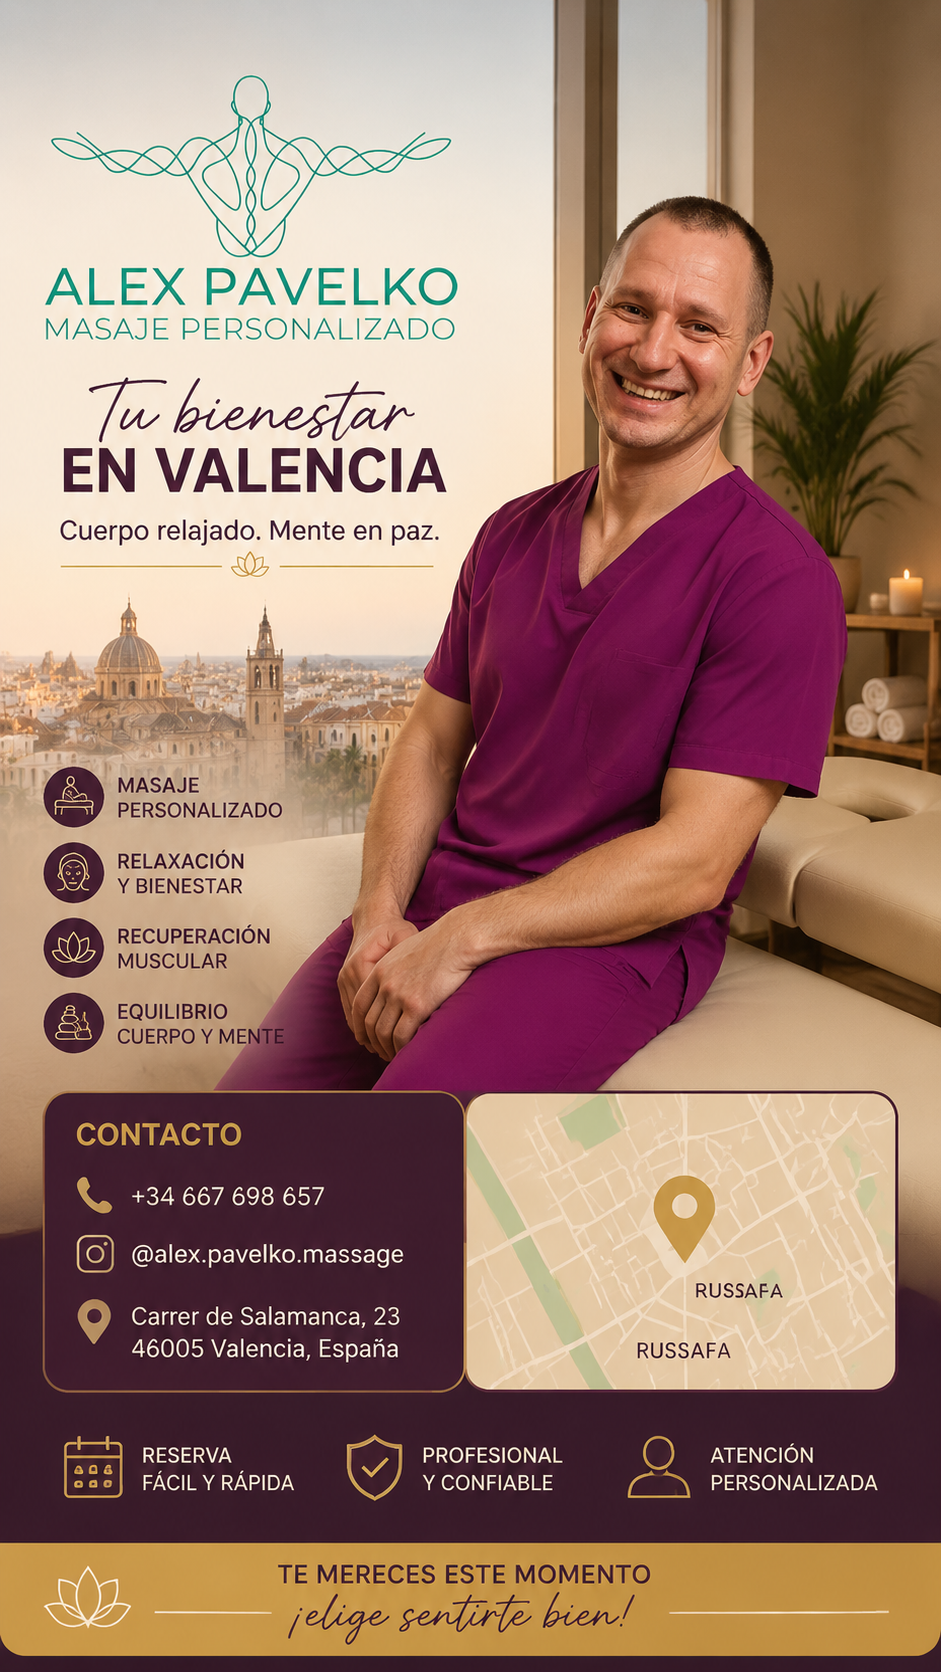
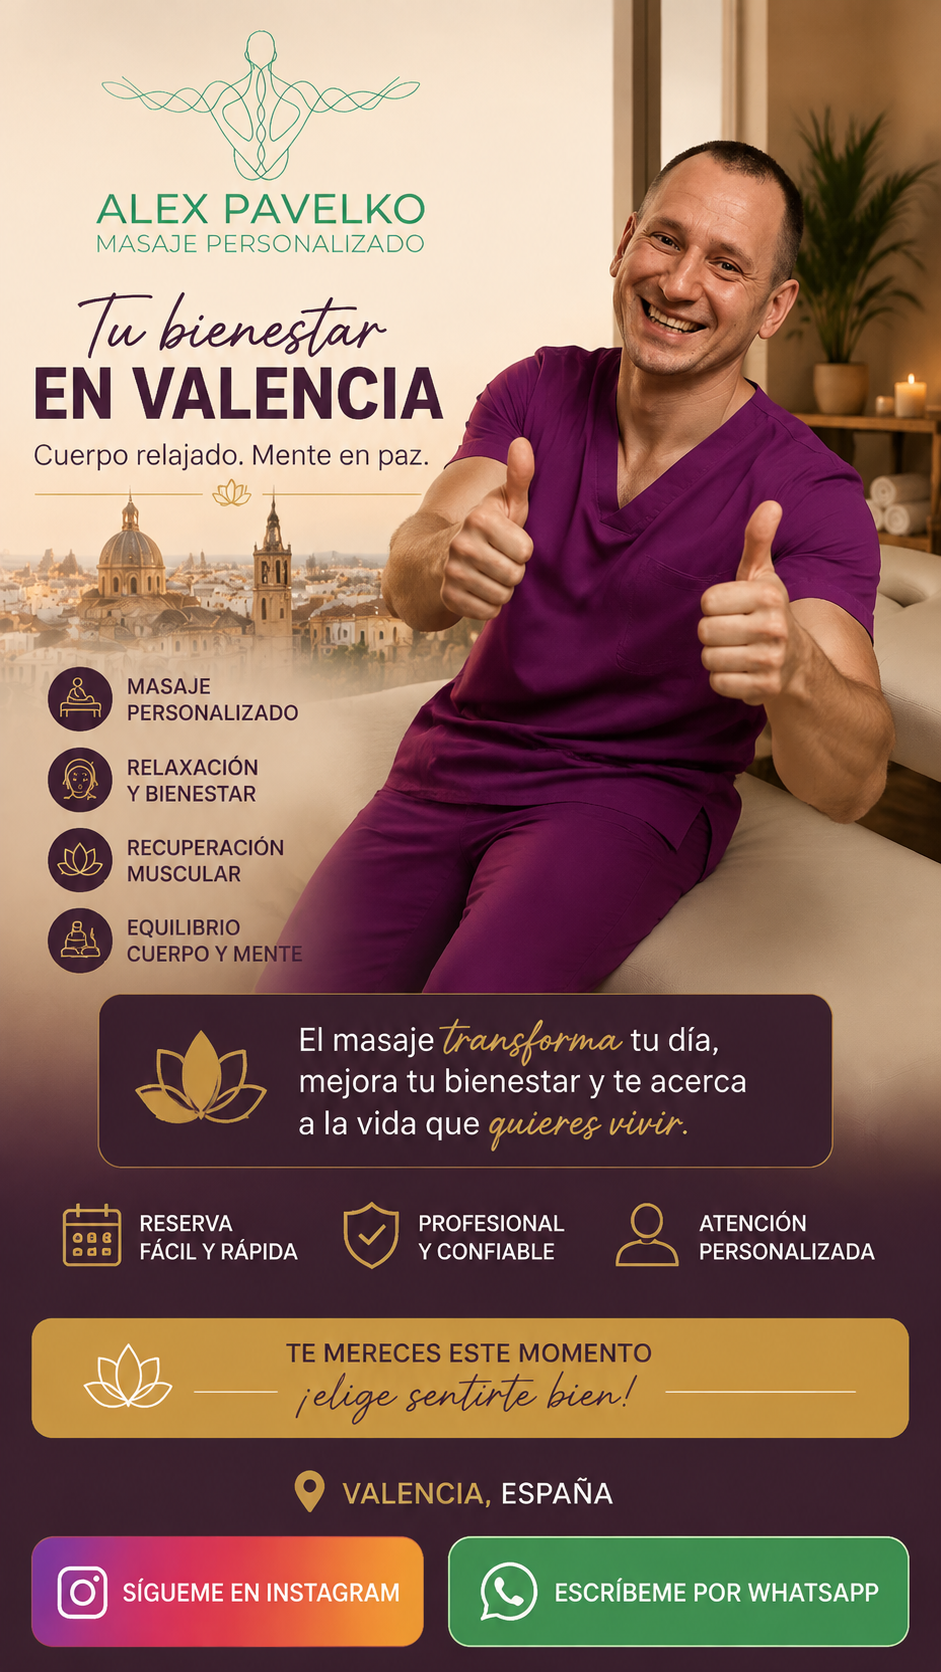
8v

diff --git a/style.css b/style.css
@@ -2239,7 +2239,83 @@ AUTHOR SCREEN
 }
 
 
+/*
+=================================================
 
+SCREEN-024
+
+CONTACT BUTTONS
+
+INSTAGRAM + WHATSAPP
+
+=================================================
+*/
+
+
+.contact-instagram-button,
+.contact-whatsapp-button {
+
+
+    position:absolute;
+
+
+    bottom:4%;
+
+
+    height:10%;
+
+
+    background:transparent;
+
+
+    border:none;
+
+
+    cursor:pointer;
+
+
+    z-index:50;
+
+
+}
+
+
+
+/*
+INSTAGRAM LEFT BUTTON
+
+=================================================
+*/
+
+.contact-instagram-button {
+
+
+    left:5%;
+
+
+    width:42%;
+
+
+}
+
+
+
+/*
+WHATSAPP RIGHT BUTTON
+
+=================================================
+*/
+
+.contact-whatsapp-button {
+
+
+    right:5%;
+
+
+    width:42%;
+
+
+}
 
 
 

diff --git a/game.js b/game.js
@@ -1083,6 +1083,19 @@ document.getElementById(
 ),
 
 
+instagram:
+document.getElementById(
+"button-screen-024-instagram"
+),
+
+
+whatsapp:
+document.getElementById(
+"button-screen-024-whatsapp"
+),
+
+
+
 
 
 
@@ -3432,6 +3445,48 @@ screens.screen001
 
 
 
+
+
+
+
+/*
+=================================================
+
+SCREEN-024
+
+CONTACT BUTTONS
+
+=================================================
+*/
+
+
+buttons.instagram.addEventListener(
+"click",
+function(){
+
+
+window.open(
+"https://www.instagram.com/masaje.alex.vlc/",
+"_blank"
+);
+
+
+});
+
+
+
+buttons.whatsapp.addEventListener(
+"click",
+function(){
+
+
+window.open(
+"https://wa.me/34667698657",
+"_blank"
+);
+
+
+});
 
 
 

diff --git a/index.html b/index.html
@@ -1445,13 +1445,26 @@ id="button-screen-024-01">
 </button>
 
 
+
+
+
+<!-- INSTAGRAM BUTTON -->
+
+<button
+class="contact-instagram-button"
+id="button-screen-024-instagram">
+</button>
+
+
+<!-- WHATSAPP BUTTON -->
+
+<button
+class="contact-whatsapp-button"
+id="button-screen-024-whatsapp">
+</button>
+
+
 </section>
-
-
-
-
-
-
 
 
 
